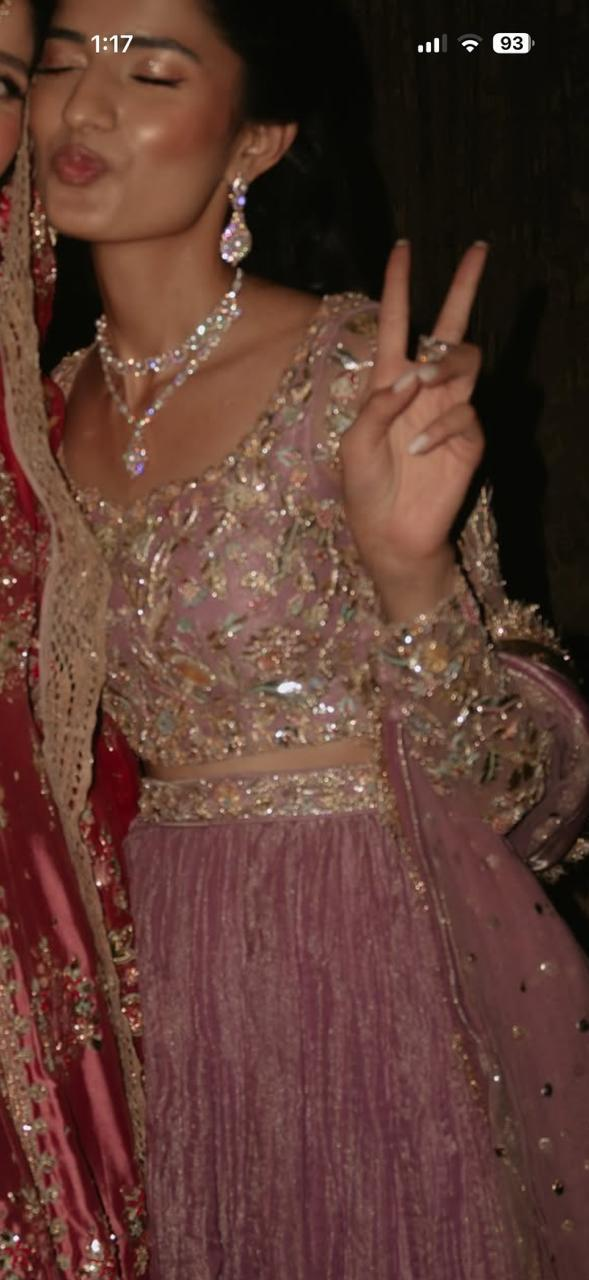
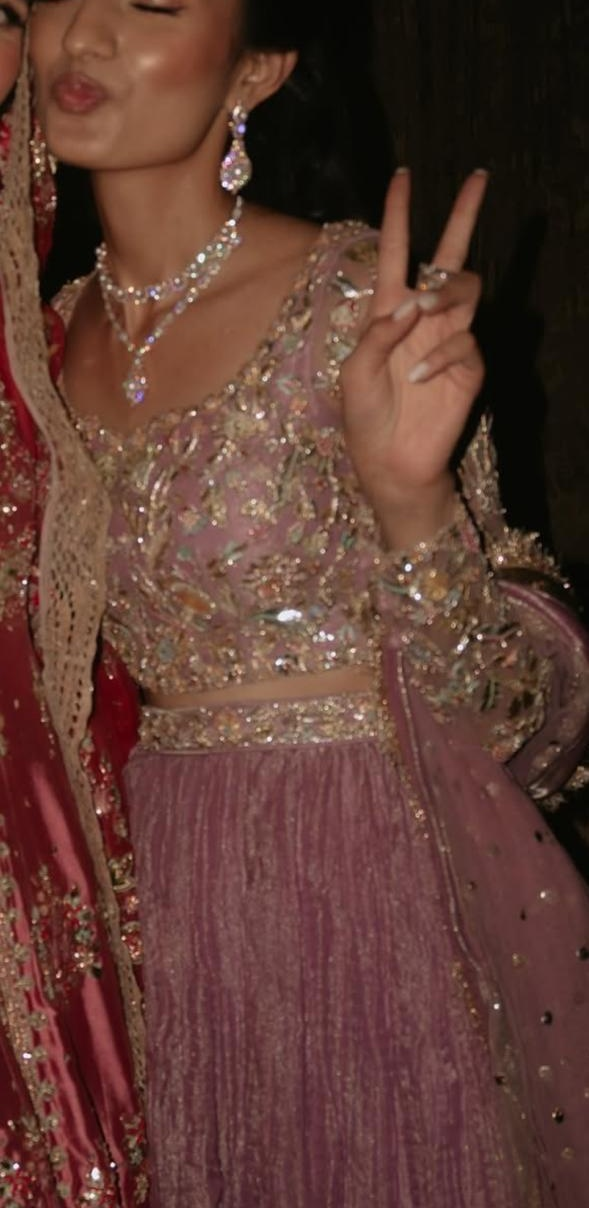
Hero: crop phone status bar off the third image (4a684780)
Claude-Session: https://claude.ai/code/session_01EFJoffJsr2yLgsFBqDLHnJ

diff --git a/src/data/assets.generated.ts b/src/data/assets.generated.ts
@@ -144,12 +144,12 @@ export const GENERATED_ASSETS: Record<string, GeneratedAsset> = {
   },
   "4a684780": {
     "width": 589,
-    "height": 1280,
+    "height": 1208,
     "large": {
       "width": 589,
-      "height": 1280
+      "height": 1208
     },
[2 lines of base64/hex data omitted]
   },
   "50cadec0": {
     "width": 589,
